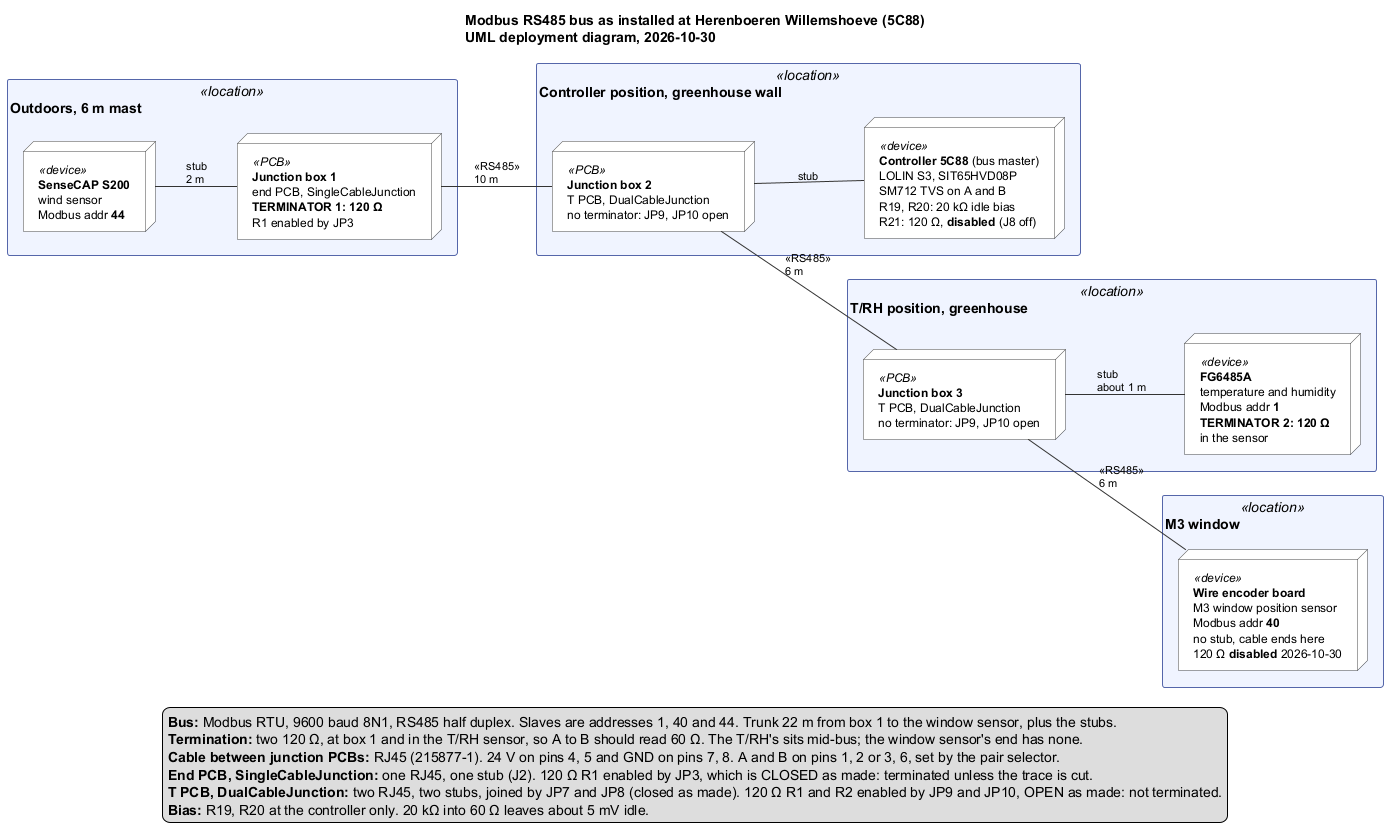
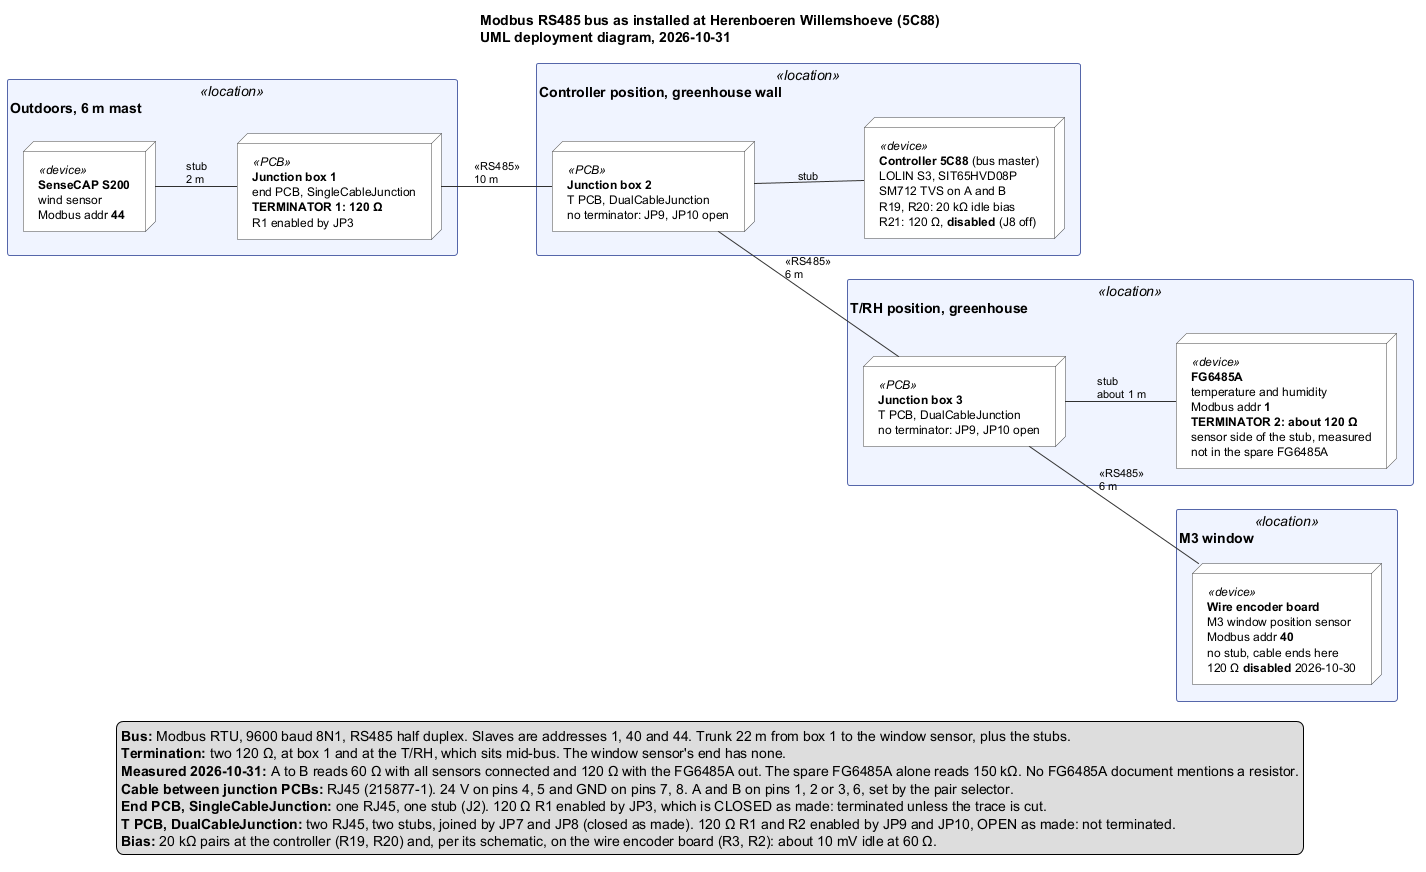
docs(5C88): M3's motor knocks the bus out; what sits at the T/RH, measured
M3's characterisation on 5C88 ended twice at one motor start. Address 40
stopped answering about 4 s after the relay closed, and the wind sensor
failed with it, raising a false wind override that closed M3. The new
gotcha entry holds the timeline and the diagnosis: M3 had never run on
the repaired wiring, because the teach of 2026-10-30 came before the fix.
The calibration is intact. The mechanism is not proven, and no fix is
applied yet.

Measured 2026-10-31: A-B reads 60 ohm with everything connected and 120
ohm with the installed FG6485A out, so about 120 ohm sits at the T/RH.
A spare FG6485A, never on site, reads 150 kohm, so that is not a property
of the model. No FG6485A document mentions a resistor. The diagram now
says this, and gets the bus bias right: the wire encoder board has its
own 20 kohm pair per its schematic, so about 10 mV idle at 60 ohm, not 5.

The 60 ohm recorded on 2026-10-30 depends on the FG6485A removed that
day, which has not been measured. The gotcha entry says so.

Next is on site: the spare FG6485A at box 3 with the window sensor's
120 ohm on. 2.17.1 work is on hold.

Changed region(s): [[0.0, 0.0929, 1.0, 0.9905], [0.3388, 0.0, 0.7701, 0.1238], [0.1232, 0.0929, 0.1848, 0.1238]]

diff --git a/temp/unit-5c88/research.md b/temp/unit-5c88/research.md
@@ -1,0 +1,131 @@
+# 5C88: M3 characterisation failed twice, 2026-10-31
+
+**Status:** diagnosed, mechanism not proven, no fix applied. Firmware 2.17.0 on 5C88. 2.17.1 work is on hold.
+
+**Evidence:** `5C88_20261031003413.csv` (00:35 to 09:35), the screenshots in this folder, `/api/status` from rfsee.net at 13:34, and the session record of 2026-10-30. The log ends before the 10:14 hourly bus row, so the failures cannot be split per run.
+
+## Conclusion
+
+M3's motor knocks out the Modbus bus. The characterisation and the teach are not at fault, and the firmware stopped both runs correctly.
+
+M3 had never run on the current wiring. The teach of 2026-10-30 ran before the bus fix, with the T/RH unplugged and the window sensor's 120 Ω still on. After the fix (boot at 11:48) M3 did not move until this morning, so "100 % after the fix" described a bus at rest.
+
+## What happened
+
+| Event | Run 1 | Run 2 |
+|---|---|---|
+| Run started, rest 30 s | 09:19:39 | 09:30:31 |
+| M3 relay on, opening | 09:19:39 | 09:30:32 |
+| Last good reads, both 0 mm | 09:19:39, 09:19:40 | 09:30:32, 09:30:33 |
+| Address 40 lost (gate reason 2) | 09:19:43 | 09:30:36 |
+| Run ended, `char_err` 3 (sensor), 1 motor start | 09:19:44 | 09:30:37 |
+| Wind sensor fault set, false wind override | 09:20:50 and 09:21:49 | 09:30:37 |
+| M3 closing, because of that override | 09:21:37, after 118 s | 09:31:13, after 41 s |
+| Wind fault cleared for good | 09:22:48 | 09:31:36 |
+| Address 40 answering again | 09:23:16 | 09:32:08 |
+| M3 closed, relay off | 09:24:33 | 09:34:09 |
+
+Run 1 also had one good probe at 09:20:45, lost again at 09:20:47.
+
+## Findings
+
+- **The whole bus is affected, not only the encoder.** Failed reads since boot on `/api/status`:
+
+  | Address | Sensor | Errors | Longest run |
+  |---|---|---|---|
+  | 40 | Window sensor | 59 | 8 |
+  | 44 | Wind | 10 | 2 |
+  | 1 | T/RH | 9 | 1 |
+
+  The log's hourly rows, up to 09:15, account for only 9, 0 and 1 of these. The rest came either after 09:15 or before the log starts at 00:35, so the log cannot show how many came from the two runs.
+- **The encoder did not restart:** no param 247 row, and no start-up bit in its status.
+- **The wind override was false.** Real wind was about 1 m/s. The sensor fault triggered the safe-fail, which closed M3.
+- **The margin is thin even without the motor.** Address 40 failed 2, 3 and 4 times in the hours ending 04:23, 05:21 and 06:20, at about 95 % RH, and 0 times in the other hours in the log.
+- **The data cannot separate direction, opening current and position.** While the gate is shut T17 re-probes only every 30 s, and T5 polls every 30 s.
+
+## Likely mechanism (not proven)
+
+- The idle bias is small, about 10 mV at 60 Ω: 20 kΩ pairs at the controller (R19, R20) and, per its schematic, on the wire encoder board (R3, R2), so 10 kΩ each way.
+- The far end of the M3 leg is unterminated. The second terminator sits mid-bus, at the T/RH (measured, see below).
+- Motor noise on that leg can then cross the receivers' thresholds.
+
+## Measured: about 120 Ω at the T/RH, but not in every FG6485A
+
+Operator, 2026-10-31, with the window sensor's 120 Ω and J8 off:
+
+| Measured | A–B |
+|---|---|
+| All sensors connected | 60 Ω |
+| FG6485A disconnected | 120 Ω |
+| The spare FG6485A on its own | 150 kΩ |
+
+So about 120 Ω sits on the sensor side of where the T/RH was disconnected, **but it is not a property of the model**: the spare has none. It is either a resistor fitted in or at the installed sensor, or a difference between the units. None of the four items in `documentation/Sensors/T-RH_ FG6485A` mentions one.
+
+**The spare was never installed on site** (operator, 2026-10-31), so the two FG6485As used on 2026-10-30 are other units. Only the installed one has been characterised, by the bus reading above. If the other one reads high like the spare, the recorded 60 Ω was right: box 1 plus the window sensor, with the bus failing about 40 % on a terminator at each physical end. If it also reads about 120 Ω, the bus should have read 40 Ω and the 60 Ω stays unexplained. The removed unit decides this.
+
+**The bisect of 2026-10-30** (reads at rest unless noted):
+
+| On the bus | Read OK |
+|---|---|
+| Wind only | 100 % |
+| Window sensor only | about 95 % |
+| Wind + window sensor | 100 %, also with M3 moving |
+| T/RH + window sensor | 0 % |
+| Everything | about 40 % |
+| Everything, second FG6485A | 29-69 % |
+| Everything, window sensor's 120 Ω off | 100 % at rest, **fails with M3 running** |
+
+Every failure at rest had an FG6485A and the window sensor's 120 Ω on the bus together.
+
+## Ruled out
+
+- **Calibration:** run 2 was accepted, and a start refuses anything but a valid calibration. The card's "not taught" and "Calibration UNKNOWN" only mean the sensor could not be read at that moment. **Do not re-teach.**
+- **WiFi:** the failure is on RS485.
+- **Firmware alone:** the same run passed on 2344 (2.17.1-bench, 123 starts), but that rig has no greenhouse motor, so this is not a full clearance.
+
+## Production state
+
+At 13:34: M3 closed, gate ok, Lineair in force, AUTOMATIC. Any M3 drive can repeat this. It fails safe, because the false wind override closes the windows. Switching M3 to timed would not help, because the motor would still disturb the bus.
+
+## Current wiring
+
+Trunk: mast box 1, 10 m, box 2 (controller), 6 m, box 3 (T/RH stub about 1 m), 6 m, window sensor. S200 stub 2 m. Active terminators: box 1 and about 120 Ω at the T/RH, both measured. See `design/modbusBusInstallation5C88.puml`.
+
+## Planned next steps (on site)
+
+All hardware changes with the power off. Run this from the site LAN during every M3 test:
+
+```bash
+python bin/bus_watch.py --host 192.168.1.104 --every 10
+```
+
+1. **Done: A–B measured.** 60 Ω, and 120 Ω without the FG6485A. The T/RH's terminator is real.
+
+2. **Reproduce it on the current wiring.** Drive M3 fully open and closed from the LCD. Note when failures start and stop against the motor, the direction and the position.
+
+3. **If the FG6485A removed on 2026-10-30 is at hand, measure it unpowered, yellow to white.** It settles the 60 Ω, but nothing below waits for it.
+
+4. **Fit the spare FG6485A at box 3 and enable the window sensor's 120 Ω,** power off. Set the spare's address switches to 1 first. That puts a terminator at each physical end without opening a sensor, and A–B should read about 60 Ω. Keep the installed sensor safe and unchanged.
+
+   Then watch the bus at rest for a few minutes before moving M3, and repeat step 2:
+
+   | Result | Means | Next |
+   |---|---|---|
+   | Clean at rest and with M3 running | The resistor's position was the problem | Go to step 6 |
+   | Fails at rest | An FG6485A plus the window sensor's 120 Ω is the problem, whatever the sensor's own resistor. Disable the 120 Ω again | Go to step 5 |
+   | Clean at rest, fails with M3 running | Motor noise, not termination | Go to step 5 |
+
+5. **If it still fails:**
+   - Compare with the T/RH stub unplugged, to see whether the T/RH is the discriminator.
+   - Check whether the M3 leg runs alongside the motor cable.
+   - Fit stronger bias at the controller: about 470 Ω from A to +3.3 V and from B to GND, in place of the 20 kΩ.
+
+6. **Pass criterion, before retrying the characterisation:** a full M3 open and close with no gate drop, no wind or T/RH sensor fault, and no run of two failed reads on any address.
+
+7. **Then retry the characterisation** with `bus_watch.py` running beside it. Plan for 1.5 to 3 hours.
+
+## Parked while 2.17.1 is on hold
+
+- A failed run sends no stop, so M3 carries on to its target. Here only the wind safe-fail ended the drive (`characterise.cpp` has no `CMD_STOP`).
+- The card says "not taught" when the calibration is only unreadable, which invites a pointless re-teach.
+- 2.17.1 open items: gh#98, gh#100, gh#103 item 7, gh#99.

diff --git a/memory/gotcha-log.md b/memory/gotcha-log.md
@@ -107,6 +107,7 @@ Entries stay in reverse-chronological order below; this index is the only groupe
 - **2026-07-31** — anti-thrash dwell was unguarded during travel (gh#48) [RESOLVED 2.3.1, gh#48]
 
 ### Modbus bus, sensors & clock (T5, drivers)
+- **2026-10-31** — 5C88's characterisation ended twice at one motor start: M3's motor knocks the bus out on the repaired wiring, which M3 had never run on. The calibration is intact, whatever the card says; do not re-teach
 - **2026-10-30** — the whole bus fails about 60 % of reads, every slave together, while A–B reads a correct 60 Ω: remove a terminator first (5C88: the window sensor's 120 Ω). 20 kΩ bias into 60 Ω leaves about 5 mV idle; bisect with `bin/bus_watch.py`
 - **2026-09-19** — no bus-KPI rows (`LOG_SYSTEM 31`) for ~2 h after a boot: the first hourly call only takes the baseline; judge the bus from the diag counters until then
 - **2026-09-19** — after an OTA push the unit's clock is HOURS wrong for ~5 min and the SD file cannot be found by its boot time (the boot SNTP failed, the 2026-07-13 rate limit, and T4 seeded a CORRECT clock from a DS1307 that was 5 h 42 min behind; gh#55)
@@ -244,6 +245,22 @@ Entries stay in reverse-chronological order below; this index is the only groupe
 ### Server side (VPS)
 - **2026-07-14** — logrotate: validate as root; group-writable `/var/log` needs `su`
 
+## 2026-10-31 — 5C88's characterisation ended twice at one motor start: address 40 stopped answering about 2 s after M3's relay closed [OPEN]
+
+**Problem:** two runs (09:19:39, 09:30:31, rest 30 s, firmware 2.17.0) each ended with `char_err` 3, sensor, after one motor start. The card then read Calibration UNKNOWN and "Not available: the sensor is not taught".
+
+**What the log shows** (`SENSOR_HR ch 3`, `ALARM ch 6`, both runs alike): two good reads at 0 mm, relay + 0 and + 1 s, then none. Gate reason 2 (no sensor at address 40) at relay + 4 s, with the leaf still reading 0 mm when last seen. The wind sensor failed too: faults at 09:20:50, 09:21:49, 09:30:37, each raising a false wind override, in about 1 m/s of real wind. That override is what closed M3, 118 s and 41 s into the open. Reads returned during or just after the close. Encoder not restarted (no param 247, no start-up bit). Since boot `bus[]` reads addr 40 59 errors, run of 8; addr 44 10, run of 2; addr 1 9, run of 1.
+
+**Root cause: the motor, on wiring M3 had never run on. The mechanism is not proven.** The teach of 2026-10-30 ran BEFORE the bus fix, with the T/RH unplugged and the window sensor's 120 Ω on. After the fix (boot 11:48) M3 did not move until this run, so "100 % after the fix" was a bus at rest. Leading explanation: about 10 mV idle bias, the far end of the M3 leg unterminated and the second terminator mid-bus at the T/RH (measured 2026-10-31), so motor noise on that leg crosses the receivers' thresholds. Addr 40 was already failing at rest on the coldest, wettest hours (2, 3, 4 an hour, 04:23-06:20, RH 95 %; 0 in the other hours). The sparse polls (T5 30 s, T17's re-probe 30 s while the gate is shut) cannot say whether it follows direction, opening current or position.
+
+**Not the cause:** firmware (the same run passed on 2344 with 123 starts, but the rig has no greenhouse motor); the calibration (the second run was ACCEPTED, and the start refuses anything but CAL_VALID); WiFi; real wind.
+
+**Also seen:** the card says "not taught" when the calibration is only unreadable, which invites a pointless re-teach. A failed run sends no stop: M3 carries on to its target (`characterise.cpp` has no CMD_STOP), and here only the wind safe-fail ended the drive.
+
+**Fix:** none yet. Fit the spare FG6485A (never on site, address set to 1) with the window sensor's 120 Ω on, which ends the bus at both physical ends, and test with `bin/bus_watch.py --every 10` while M3 runs. **A check of a bus at rest says nothing about a bus with the motor running: move the motor.**
+
+**Where it lives:** `temp/unit-5c88/5C88_20261031003413.csv`; `design/modbusBusInstallation5C88.puml`.
+
 ## 2026-10-30 — 5C88's whole bus failed about 60 % of its reads once the M3 leg was extended: a 120 Ω terminator on the window sensor was the difference [RESOLVED, mechanism unproven]
 
 **Problem:** with a new transceiver fitted and the leg extended to the M3 wire encoder, all three slaves failed together: address 1 41 % OK, 44 39 %, 40 47 %. A healthy S200 on another leg failed too. The failures came in shared bursts, and they were not steady (address 40 went from 149 OK to none). A second FG6485A behaved the same, which ruled out the sensor.
@@ -268,7 +285,7 @@ Entries stay in reverse-chronological order below; this index is the only groupe
 
 **Also learned:** this was the first time 2.17.0's Modbus driver ran against a real FG6485A and S200 (gh#70, the 20 ms gap): both are clean, which closes the unknown in finding 6 of `design/releaseComparison_2.3.1_vs_2.17.0.md`. What killed the first transceiver is unknown. T5's ALARM rows carry only status 1 (COMM), so the SD log cannot separate timeouts from CRC errors; the bus counters and a bisect did the work.
 
-**Layout, from the operator the same day:** terminator 1 in junction box 1 (wind), terminator 2 in the T/RH sensor at box 3, the window sensor's 120 Ω disabled, J8 off on the controller: `design/modbusBusInstallation5C88.puml`. **That does not fit the 60 Ω above:** with the window sensor's 120 Ω still on, three terminators would read 40 Ω. One of the two is wrong, so the table's first row and "two terminators" stay open until A–B is measured. It should read 60 Ω today; 120 Ω would mean the T/RH's is not across A and B.
+**Layout, from the operator the same day:** terminator 1 in junction box 1 (wind), terminator 2 in the T/RH sensor at box 3 (**measured 2026-10-31:** A–B 60 Ω with everything connected, 120 Ω with the FG6485A out, **but the spare FG6485A reads 150 kΩ**, so it is not a property of the model. None of the four items in `documentation/Sensors/T-RH_ FG6485A` mentions one), the window sensor's 120 Ω disabled, J8 off on the controller: `design/modbusBusInstallation5C88.puml`. **That does not fit the 60 Ω above:** with the window sensor's 120 Ω still on, three terminators would read 40 Ω. The spare was never on site, so the FG6485A removed on 2026-10-30 is unmeasured. If it reads high like the spare, the 60 Ω was right (box 1 plus the window sensor), and the bus failed about 40 % with a terminator at each physical end. If it reads about 120 Ω, the bus should have read 40 Ω and the reading stays unexplained. The pattern holds either way: every failure at rest had an FG6485A and the window sensor's 120 Ω on the bus together. **Correction to the 5 mV above:** the wire encoder board has its own 20 kΩ pair (R3, R2 in its schematic), so the idle bias is about 10 mV at 60 Ω while it is connected.
 
 **Where it lives:** the window sensor board's terminator at the site; `design/technicalHardwareDesignSpecification.md` §4.3.4 (R19, R20, J8); `bin/bus_watch.py`.
 
